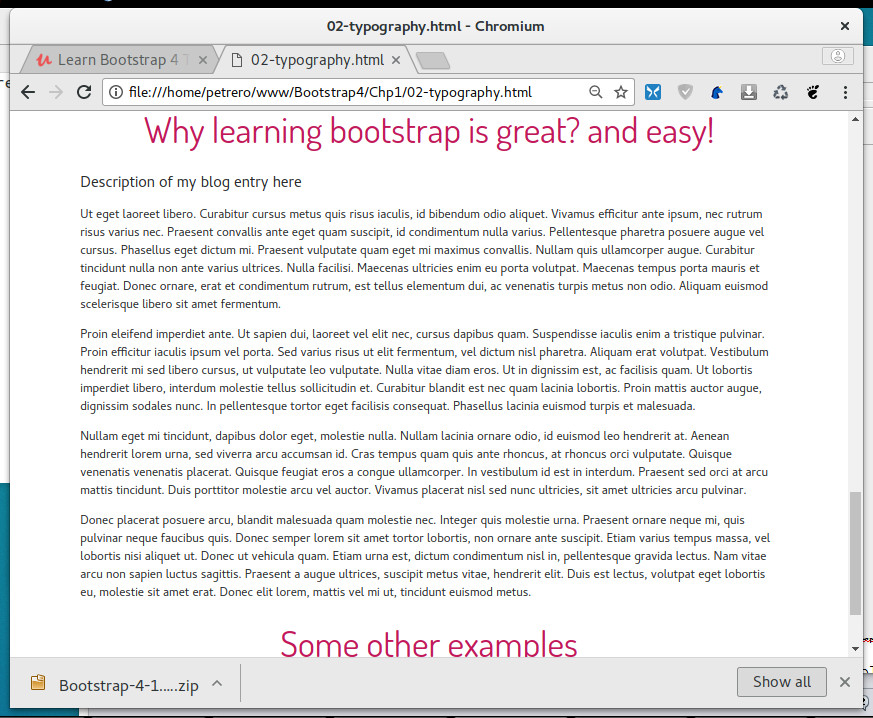
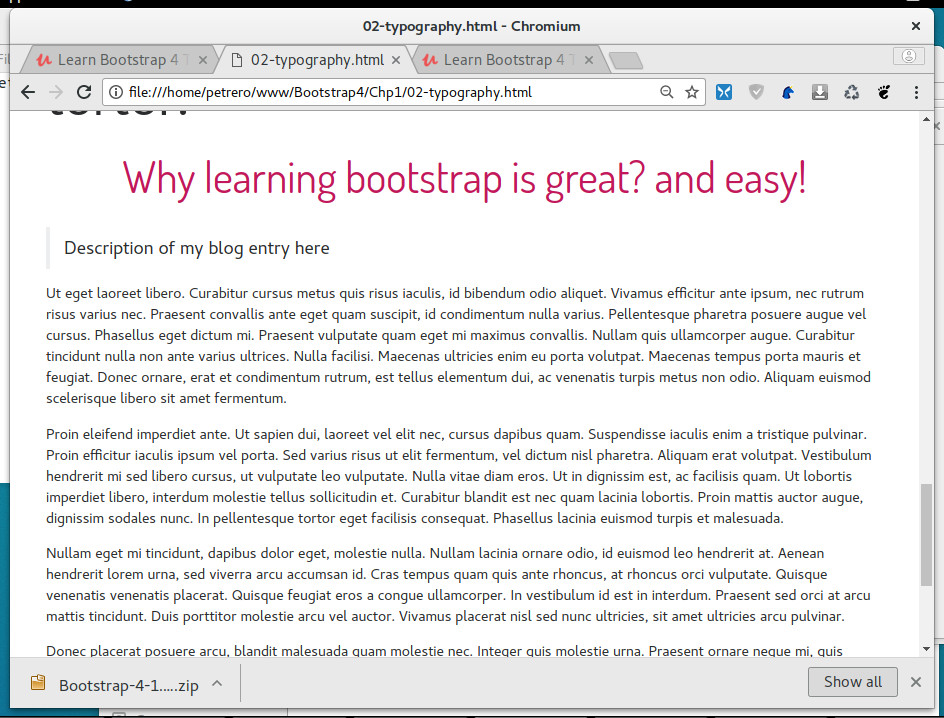
Align a paragraph to the right.

Changed region(s): [[0.0, 0.0306, 1.0, 1.0]]

diff --git a/Chp1/02-typography.html b/Chp1/02-typography.html
@@ -54,7 +54,7 @@
         Description of my blog entry here
       </blockquote>
 
-      <p>Ut eget laoreet libero. Curabitur cursus metus quis risus iaculis, id bibendum odio aliquet. Vivamus efficitur ante ipsum, nec rutrum risus varius nec. Praesent convallis ante eget quam suscipit, id condimentum nulla varius. Pellentesque pharetra posuere augue vel cursus. Phasellus eget dictum mi. Praesent vulputate quam eget mi maximus convallis. Nullam quis ullamcorper augue. Curabitur tincidunt nulla non ante varius ultrices. Nulla facilisi. Maecenas ultricies enim eu porta volutpat. Maecenas tempus porta mauris et feugiat. Donec ornare, erat et condimentum rutrum, est tellus elementum dui, ac venenatis turpis metus non odio. Aliquam euismod scelerisque libero sit amet fermentum.</p>
+      <p class="text-right">Ut eget laoreet libero. Curabitur cursus metus quis risus iaculis, id bibendum odio aliquet. Vivamus efficitur ante ipsum, nec rutrum risus varius nec. Praesent convallis ante eget quam suscipit, id condimentum nulla varius. Pellentesque pharetra posuere augue vel cursus. Phasellus eget dictum mi. Praesent vulputate quam eget mi maximus convallis. Nullam quis ullamcorper augue. Curabitur tincidunt nulla non ante varius ultrices. Nulla facilisi. Maecenas ultricies enim eu porta volutpat. Maecenas tempus porta mauris et feugiat. Donec ornare, erat et condimentum rutrum, est tellus elementum dui, ac venenatis turpis metus non odio. Aliquam euismod scelerisque libero sit amet fermentum.</p>
 
       <p>Proin eleifend imperdiet ante. Ut sapien dui, laoreet vel elit nec, cursus dapibus quam. Suspendisse iaculis enim a tristique pulvinar. Proin efficitur iaculis ipsum vel porta. Sed varius risus ut elit fermentum, vel dictum nisl pharetra. Aliquam erat volutpat. Vestibulum hendrerit mi sed libero cursus, ut vulputate leo vulputate. Nulla vitae diam eros. Ut in dignissim est, ac facilisis quam. Ut lobortis imperdiet libero, interdum molestie tellus sollicitudin et. Curabitur blandit est nec quam lacinia lobortis. Proin mattis auctor augue, dignissim sodales nunc. In pellentesque tortor eget facilisis consequat. Phasellus lacinia euismod turpis et malesuada.</p>
 
